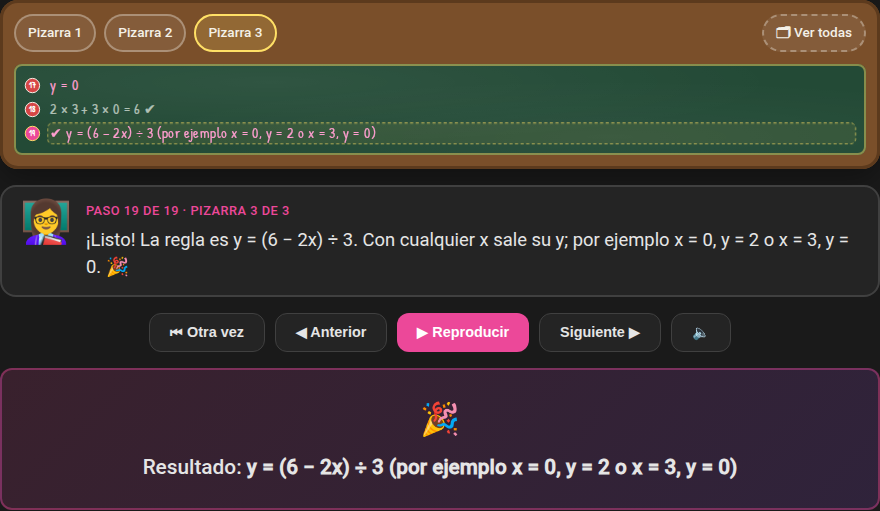
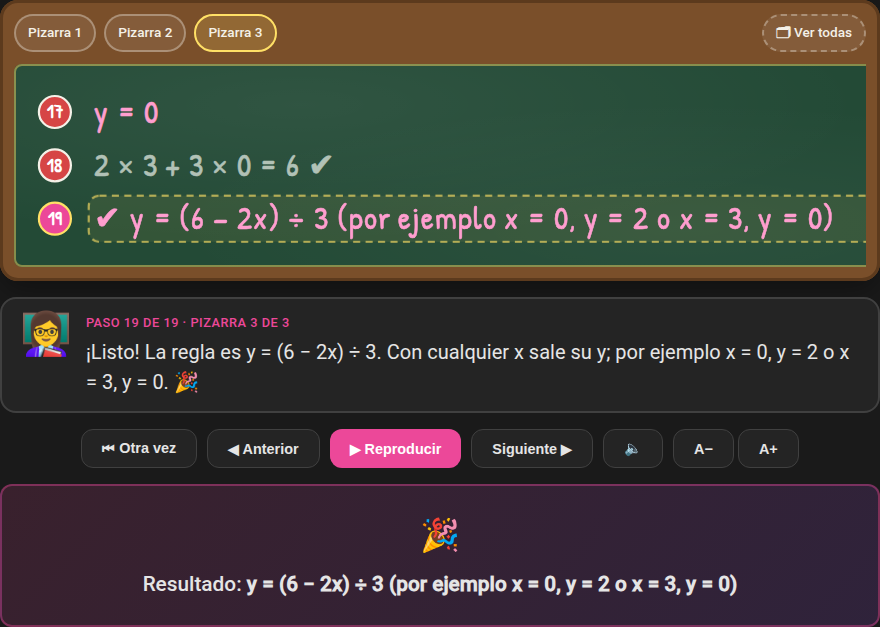
feat: letra mas grande en la pizarra y tamano de letra configurable
La letra de los renglones ya no se encoge con los renglones largos: tiene un
tamano fijo y se cambia en Configuracion > Interfaz o con A- / A+ junto a la
pizarra (tambien la explicacion de la maestra).

diff --git a/src/components/Chalkboard.tsx b/src/components/Chalkboard.tsx
@@ -1,8 +1,9 @@
-import { useEffect, useMemo, useState, type CSSProperties } from 'react'
+import { useEffect, useMemo, useRef, useState, type CSSProperties } from 'react'
 import '@fontsource/patrick-hand'
 import type { BoardItem, BoardScript } from '../lib/board/types'
 import { MAX_ROWS_PER_PAGE, pageOf, rowOnPage } from '../lib/board/paginate'
 import BoardVisual from './BoardVisual'
+import { FONT_SCALES } from '../lib/uiPrefs'
 
 // Geometria de la cuadricula (unidades del viewBox del SVG)
 const CW = 52
@@ -10,6 +11,12 @@ const CH = 60
 const PAD = 24
 /** Retraso entre trazos de un mismo paso (segundos) */
 const STAGGER = 0.35
+/** Tamano en pantalla (px) de la letra de los renglones con tamano de letra 1 */
+const TEXT_PX = 32
+/** Tamano de letra de los renglones en unidades del viewBox (ver renderItem) */
+const TEXT_UNITS = 36
+/** Ancho de una letra de tiza (Patrick Hand) en unidades del viewBox, un poco de sobra */
+const CHAR_UNITS = 16
 
 interface ChalkboardProps {
   script: BoardScript
@@ -23,6 +30,10 @@ interface ChalkboardProps {
   maxRowsPerPage?: number
   /** Ver todas las pizarras juntas; si no, solo la que se esta viendo (el usuario puede cambiarlo) */
   showAllPages?: boolean
+  /** Tamano de la letra de la pizarra y de la explicacion (1 = normal) */
+  fontScale?: number
+  /** Al cambiar el tamano de letra desde la pizarra (para guardarlo) */
+  onFontScaleChange?: (scale: number) => void
 }
 
 /** Ancho de la columna de numeros de paso en los problemas de renglones */
@@ -38,6 +49,7 @@ const canSpeak = typeof window !== 'undefined' && 'speechSynthesis' in window
 
 export default function Chalkboard({
   script, autoPlay = true, onStepChange, onAskStep, maxRowsPerPage = MAX_ROWS_PER_PAGE, showAllPages = false,
+  fontScale = 1, onFontScaleChange,
 }: ChalkboardProps) {
   const [step, setStep] = useState(0)
   const [playing, setPlaying] = useState(autoPlay)
@@ -124,6 +136,41 @@ export default function Chalkboard({
   }, [visible, pages, maxRowsPerPage])
 
   const width = PAD * 2 + gutter + script.cols * CW
+
+  // Renglones de texto: la letra tiene un tamano fijo en pantalla (no se encoge si un renglon es largo)
+  // y la pizarra llena el ancho disponible. Si un renglon no cabe, la pizarra se desplaza de lado.
+  const pagesRef = useRef<HTMLDivElement>(null)
+  const [avail, setAvail] = useState(0)
+  useEffect(() => {
+    const el = pagesRef.current
+    if (!el || typeof ResizeObserver === 'undefined') return
+    const ro = new ResizeObserver(([e]) => setAvail(e.contentRect.width))
+    ro.observe(el)
+    return () => ro.disconnect()
+  }, [])
+  const zoom = (TEXT_PX / TEXT_UNITS) * fontScale
+  const together = pages > 1 && allPages
+  const pageAvail = together ? Math.max(300, (avail - 12 * (pages - 1)) / pages) : avail
+  // Ancho que de verdad ocupan los renglones (script.cols sobreestima el texto: es para cuentas en columna)
+  const textW = useMemo(() => {
+    let units = 0
+    for (const st of script.steps) {
+      for (const it of st.add) {
+        if (it.kind === 'text' && it.align === 'start') {
+          const chars = it.parts ? it.parts.reduce((n, p) => n + p.text.length, 0) : it.text.length
+          units = Math.max(units, it.col * CW + 8 + chars * CHAR_UNITS * (it.small ? 26 / TEXT_UNITS : 1))
+        } else if (it.kind === 'line') units = Math.max(units, (it.to + 1) * CW)
+        else units = Math.max(units, (it.col + 1) * CW)
+      }
+    }
+    return PAD * 2 + gutter + units
+  }, [script, gutter])
+  const boardW = lined ? Math.max(textW, pageAvail / zoom) : width
+  const boardStyle = (rowsHere: number): CSSProperties | undefined => lined
+    ? { width: boardW * zoom, height: (PAD * 2 + rowsHere * CH) * zoom, maxWidth: 'none', maxHeight: 'none' }
+    : { maxHeight: `${(together ? 46 : 62) * fontScale}vh` }
+  const scaleIdx = FONT_SCALES.findIndex(f => f >= fontScale - 0.001)
+  const setScale = (i: number) => onFontScaleChange?.(FONT_SCALES[Math.max(0, Math.min(FONT_SCALES.length - 1, i))])
   const rowIsText = (r: number) => visible.some(i => i.kind === 'text' && i.row === r && i.align === 'start')
 
   const go = (s: number) => {
@@ -132,7 +179,7 @@ export default function Chalkboard({
   }
 
   return (
-    <div className="chalkboard-section">
+    <div className="chalkboard-section" style={{ '--font-scale': fontScale } as CSSProperties}>
       <div className="chalkboard-frame">
         {pages > 1 && (
           <div className="chalk-pages-nav">
@@ -157,7 +204,7 @@ export default function Chalkboard({
           </div>
         )}
 
-        <div className={`chalk-pages ${pages > 1 && allPages ? 'multi' : ''}`}>
+        <div ref={pagesRef} className={`chalk-pages ${together ? 'multi' : ''}`}>
           {Array.from({ length: pages }, (_, p) => {
             // Una a la vez: solo se dibuja la pizarra que se esta viendo (ahorra espacio)
             if (!allPages && p !== viewPage) return null
@@ -169,7 +216,8 @@ export default function Chalkboard({
                 {pages > 1 && allPages && <div className="chalk-page-label">Pizarra {p + 1}</div>}
                 <svg
                   className="chalkboard"
-                  viewBox={`0 0 ${width} ${PAD * 2 + rowsHere * CH}`}
+                  viewBox={`0 0 ${boardW} ${PAD * 2 + rowsHere * CH}`}
+                  style={boardStyle(rowsHere)}
                   role="img"
                   aria-label={pages > 1 ? `Pizarra ${p + 1}: ${script.title}` : `Pizarra: ${script.title}`}
                 >
@@ -197,7 +245,7 @@ export default function Chalkboard({
                           className="chalk-focus"
                           x={PAD + (wide ? 0 : c * CW) + 2}
                           y={PAD + rowOnPage(r, maxRowsPerPage) * CH + 4}
-                          width={(wide ? script.cols : 1) * CW - 4}
+                          width={(wide ? (boardW - PAD * 2 - gutter) / CW : 1) * CW - 4}
                           height={CH - 8}
                           rx={12}
                         />
@@ -264,6 +312,28 @@ export default function Chalkboard({
           >
             {voice ? '🔊' : '🔈'}
           </button>
+        )}
+        {onFontScaleChange && (
+          <div className="font-size-controls" role="group" aria-label="Tamaño de letra">
+            <button
+              className="btn btn-secondary"
+              onClick={() => setScale(scaleIdx - 1)}
+              disabled={scaleIdx <= 0}
+              aria-label="Letra más chica"
+              title="Letra más chica"
+            >
+              A−
+            </button>
+            <button
+              className="btn btn-secondary"
+              onClick={() => setScale(scaleIdx + 1)}
+              disabled={scaleIdx >= FONT_SCALES.length - 1}
+              aria-label="Letra más grande"
+              title="Letra más grande"
+            >
+              A+
+            </button>
+          </div>
         )}
       </div>
 

diff --git a/src/components/UiPrefsSection.tsx b/src/components/UiPrefsSection.tsx
@@ -1,4 +1,6 @@
-import type { UiPrefs } from '../lib/uiPrefs'
+import { FONT_SCALES, type UiPrefs } from '../lib/uiPrefs'
+
+const FONT_LABELS = ['Chica', 'Normal', 'Grande', 'Muy grande']
 
 interface UiPrefsSectionProps {
   prefs: UiPrefs
@@ -26,6 +28,26 @@ export default function UiPrefsSection({ prefs, onChange, theme, onThemeChange }
           <div className="segmented" role="group" aria-label="Pizarras de un proceso largo">
             <button type="button" aria-pressed={prefs.boards === 'one'} onClick={() => set('boards', 'one')}>📄 Una a la vez</button>
             <button type="button" aria-pressed={prefs.boards === 'all'} onClick={() => set('boards', 'all')}>🗂 Todas juntas</button>
+          </div>
+        </div>
+
+        <div className="ui-pref">
+          <div className="ui-pref-text">
+            <strong>Tamaño de letra</strong>
+            <small>De la pizarra y de lo que explica la maestra. También con A− / A+ junto a la pizarra.</small>
+          </div>
+          <div className="segmented" role="group" aria-label="Tamaño de letra">
+            {FONT_SCALES.map((f, i) => (
+              <button
+                key={f}
+                type="button"
+                aria-pressed={prefs.fontScale === f}
+                onClick={() => set('fontScale', f)}
+                style={{ fontSize: `${0.8 * f}rem` }}
+              >
+                {FONT_LABELS[i]}
+              </button>
+            ))}
           </div>
         </div>
 

diff --git a/src/components/Chalkboard.test.tsx b/src/components/Chalkboard.test.tsx
@@ -89,6 +89,23 @@ describe('Chalkboard', () => {
     expect(container.querySelector('.chalk-page.active')?.textContent).toContain('x = 1')
   })
 
+  it('la letra se agranda y achica desde la pizarra', () => {
+    const script = solutionScript({ problem: '2x + 3 = 7', steps: [{ step: 1, explanation: 'e', calculation: '2x = 4' }], final_answer: 'x = 2' })
+    const onFont = vi.fn()
+    const { container, rerender } = render(<Chalkboard script={script} autoPlay={false} fontScale={1} onFontScaleChange={onFont} />)
+    const width1 = parseFloat((container.querySelector('svg.chalkboard') as SVGElement).style.width)
+    fireEvent.click(screen.getByRole('button', { name: /letra más grande/i }))
+    expect(onFont).toHaveBeenCalledWith(1.2)
+    fireEvent.click(screen.getByRole('button', { name: /letra más chica/i }))
+    expect(onFont).toHaveBeenCalledWith(0.85)
+
+    // Con letra mas grande la pizarra de renglones se dibuja mas grande (no se encoge al ancho)
+    rerender(<Chalkboard script={script} autoPlay={false} fontScale={1.4} onFontScaleChange={onFont} />)
+    const width2 = parseFloat((container.querySelector('svg.chalkboard') as SVGElement).style.width)
+    expect(width2).toBeCloseTo(width1 * 1.4)
+    expect(screen.getByRole('button', { name: /letra más grande/i })).toBeDisabled()
+  })
+
   it('muestra todas las pizarras juntas si se pide', () => {
     const script = solutionScript({
       problem: '2x + 3 = 7',

diff --git a/src/pages/MainApp.tsx b/src/pages/MainApp.tsx
@@ -34,6 +34,7 @@ interface Solution {
 interface MainAppProps {
   settings: AppSettings
   uiPrefs?: UiPrefs
+  onUiPrefsChange?: (prefs: UiPrefs) => void
 }
 
 /** Pizarra que la app resuelve sola: cuentas en columna, expresiones (orden de operaciones, raices)
@@ -60,7 +61,7 @@ export function typoHint(text: string): string | null {
   return `Hay dos signos seguidos ("${m[1]}${m[2]}"). Revisa qué querías escribir y quita uno.`
 }
 
-function MainApp({ settings, uiPrefs = DEFAULT_UI_PREFS }: MainAppProps) {
+function MainApp({ settings, uiPrefs = DEFAULT_UI_PREFS, onUiPrefsChange }: MainAppProps) {
   const [problemText, setProblemText] = useState('')
   const [solution, setSolution] = useState<Solution | null>(null)
   const [board, setBoard] = useState<BoardScript | null>(null)
@@ -239,6 +240,8 @@ function MainApp({ settings, uiPrefs = DEFAULT_UI_PREFS }: MainAppProps) {
           script={board}
           autoPlay={uiPrefs.autoPlay}
           showAllPages={uiPrefs.boards === 'all'}
+          fontScale={uiPrefs.fontScale}
+          onFontScaleChange={onUiPrefsChange ? f => onUiPrefsChange({ ...uiPrefs, fontScale: f }) : undefined}
           onStepChange={setViewStep}
           onAskStep={askStep}
         />

diff --git a/src/lib/uiPrefs.ts b/src/lib/uiPrefs.ts
@@ -7,9 +7,14 @@ export interface UiPrefs {
   autoPlay: boolean
   /** Mostrar el panel "¿Hasta dónde llega la maestra?" en la pantalla principal */
   showLevels: boolean
+  /** Tamano de la letra de la pizarra y de la explicacion (uno de FONT_SCALES; 1 = normal) */
+  fontScale: number
 }
 
-export const DEFAULT_UI_PREFS: UiPrefs = { boards: 'one', autoPlay: true, showLevels: true }
+/** Tamanos de letra que se pueden elegir: chica, normal, grande, muy grande */
+export const FONT_SCALES = [0.85, 1, 1.2, 1.4] as const
+
+export const DEFAULT_UI_PREFS: UiPrefs = { boards: 'one', autoPlay: true, showLevels: true, fontScale: 1 }
 
 const KEY = 'ui-prefs'
 
@@ -20,6 +25,7 @@ export function loadUiPrefs(): UiPrefs {
       boards: saved.boards === 'all' ? 'all' : 'one',
       autoPlay: typeof saved.autoPlay === 'boolean' ? saved.autoPlay : DEFAULT_UI_PREFS.autoPlay,
       showLevels: typeof saved.showLevels === 'boolean' ? saved.showLevels : DEFAULT_UI_PREFS.showLevels,
+      fontScale: FONT_SCALES.find(f => f === saved.fontScale) ?? DEFAULT_UI_PREFS.fontScale,
     }
   } catch {
     return { ...DEFAULT_UI_PREFS }

diff --git a/src/lib/uiPrefs.test.ts b/src/lib/uiPrefs.test.ts
@@ -10,14 +10,14 @@ describe('preferencias de la interfaz', () => {
   })
 
   it('se guardan y se vuelven a cargar', () => {
-    saveUiPrefs({ boards: 'all', autoPlay: false, showLevels: false })
-    expect(loadUiPrefs()).toEqual({ boards: 'all', autoPlay: false, showLevels: false })
+    saveUiPrefs({ boards: 'all', autoPlay: false, showLevels: false, fontScale: 1.4 })
+    expect(loadUiPrefs()).toEqual({ boards: 'all', autoPlay: false, showLevels: false, fontScale: 1.4 })
   })
 
   it('ignora valores rotos', () => {
     localStorage.setItem('ui-prefs', '{no es json')
     expect(loadUiPrefs()).toEqual(DEFAULT_UI_PREFS)
-    localStorage.setItem('ui-prefs', JSON.stringify({ boards: 'muchas', autoPlay: 'si' }))
+    localStorage.setItem('ui-prefs', JSON.stringify({ boards: 'muchas', autoPlay: 'si', fontScale: 7 }))
     expect(loadUiPrefs()).toEqual(DEFAULT_UI_PREFS)
   })
 })

diff --git a/src/components/UiPrefsSection.test.tsx b/src/components/UiPrefsSection.test.tsx
@@ -22,6 +22,14 @@ describe('configuracion de la interfaz', () => {
     expect(onChange).toHaveBeenCalledWith({ ...DEFAULT_UI_PREFS, showLevels: false })
   })
 
+  it('cambia el tamaño de letra', () => {
+    const onChange = vi.fn()
+    render(<UiPrefsSection prefs={DEFAULT_UI_PREFS} onChange={onChange} />)
+    expect(screen.getByRole('button', { name: 'Normal' })).toHaveAttribute('aria-pressed', 'true')
+    fireEvent.click(screen.getByRole('button', { name: 'Grande' }))
+    expect(onChange).toHaveBeenCalledWith({ ...DEFAULT_UI_PREFS, fontScale: 1.2 })
+  })
+
   it('cambia el tema si se le pasa', () => {
     const onTheme = vi.fn()
     render(<UiPrefsSection prefs={DEFAULT_UI_PREFS} onChange={vi.fn()} theme="light" onThemeChange={onTheme} />)

diff --git a/src/index.css b/src/index.css
@@ -1068,6 +1068,22 @@ body {
   max-height: 46vh;
 }
 
+/* La letra tiene tamano fijo: si un renglon no cabe, la pizarra se desplaza de lado */
+.chalk-page {
+  overflow-x: auto;
+  min-width: 0;
+}
+
+.font-size-controls {
+  display: inline-flex;
+  gap: 4px;
+}
+
+.font-size-controls .btn {
+  min-width: 46px;
+  font-weight: 700;
+}
+
 .chalk-page.active .chalkboard {
   outline: 2px solid rgba(255, 224, 102, 0.45);
   outline-offset: -2px;
@@ -1181,7 +1197,7 @@ body {
 
 .chalk-narration p {
   margin: 4px 0 0;
-  font-size: 1.15rem;
+  font-size: calc(1.25rem * var(--font-scale, 1));
   line-height: 1.5;
   color: var(--text);
 }

diff --git a/src/App.tsx b/src/App.tsx
@@ -73,7 +73,7 @@ function App() {
       
       <main className="main-content">
         <div className="main-container">
-          <MainApp settings={settings} uiPrefs={uiPrefs} />
+          <MainApp settings={settings} uiPrefs={uiPrefs} onUiPrefsChange={setUiPrefs} />
         </div>
       </main>
 

diff --git a/BITACORA.md b/BITACORA.md
@@ -492,6 +492,14 @@ Como Handy con whisper: llama.cpp va enlazado en el binario (`llama-cpp-2`), sin
 - `npm run capturas` (`playwright.capturas.config.ts`, `scripts/capturas/`) genera las capturas del README en
   `docs/capturas/`.
 
+### Tamaño de letra de la pizarra (2026-10-09)
+- Antes la pizarra se escalaba al ancho: un renglón largo encogía toda la letra (en `2x + 3y = 6` quedaba ~14 px).
+  Ahora las pizarras de renglones tienen letra de tamaño fijo (`TEXT_PX` = 32 px × tamaño elegido) y llenan el ancho;
+  si un renglón no cabe, la pizarra se desplaza de lado. El ancho se calcula con el texto real (`CHAR_UNITS`), no con
+  `script.cols` (que sobreestima el texto: es para las cuentas en columna, que siguen ajustándose al ancho).
+- Tamaño de letra (`fontScale`: 0.85 / 1 / 1.2 / 1.4) en Configuración › Interfaz y con A− / A+ junto a la
+  pizarra; también agranda la explicación de la maestra.
+
 ### Pendiente
 - Ecuaciones de segundo grado en la pizarra (`x² = 9`, factorización, fórmula general).
 - Historial de problemas guardado como fixture: cada problema resuelto en un archivo (texto + guion de la

diff --git a/README.en.md b/README.en.md
@@ -58,6 +58,9 @@ In **⚙ Configuración › 🎨 Interfaz** (saved on the computer):
 
 - **Boards for long solutions**: *Una a la vez* (one at a time, the default, saves space) or *Todas juntas* (all
   together). On the board, the *Ver todas* / *Una a la vez* button changes it just for that problem.
+- **Font size** of the board and the explanation: small, normal, large, or extra large. It can also be changed with
+  the **A−** / **A+** buttons next to the board. Text no longer shrinks when a line is long: if it doesn't fit, the
+  board scrolls sideways.
 - **Autoplay the board** when solving.
 - **Show "¿Hasta dónde llega la maestra?"** on the main screen.
 - **Light or dark theme.**

diff --git a/README.md b/README.md
@@ -58,6 +58,9 @@ En **⚙ Configuración › 🎨 Interfaz** (se guarda en el equipo):
 
 - **Pizarras de un proceso largo**: *Una a la vez* (por defecto, ahorra espacio) o *Todas juntas*. En la pizarra,
   el botón *Ver todas* / *Una a la vez* cambia solo ese problema.
+- **Tamaño de letra** de la pizarra y de la explicación: chica, normal, grande o muy grande. También se cambia con
+  los botones **A−** / **A+** junto a la pizarra. La letra no se encoge cuando un renglón es largo: si no cabe, la
+  pizarra se desplaza de lado.
 - **Reproducir la pizarra sola** al resolver.
 - **Mostrar "¿Hasta dónde llega la maestra?"** en la pantalla principal.
 - **Tema** claro u oscuro.
